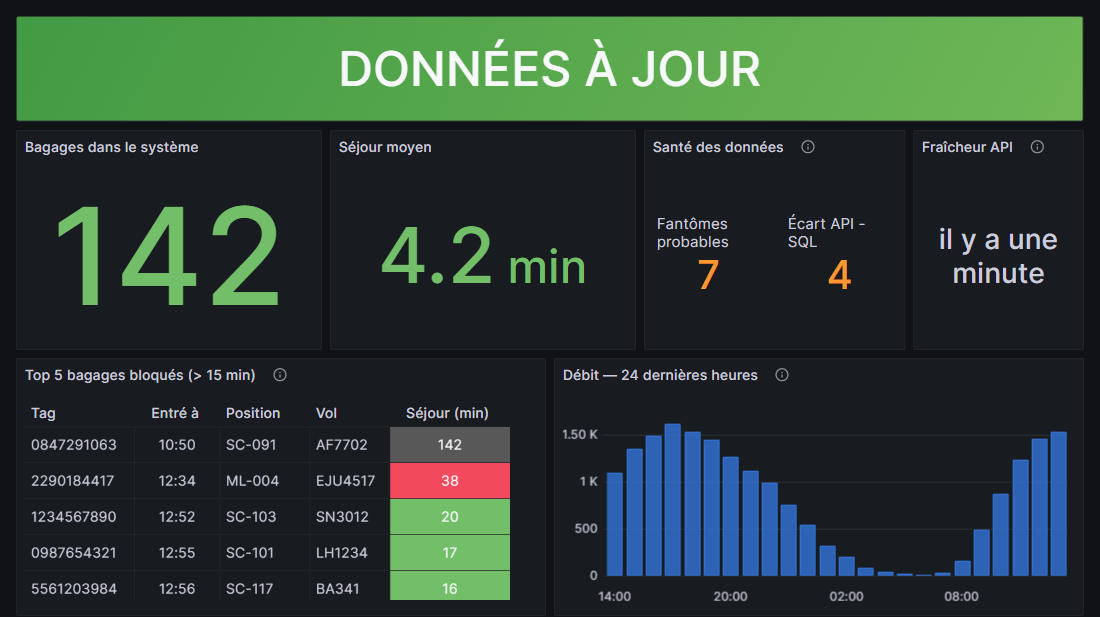
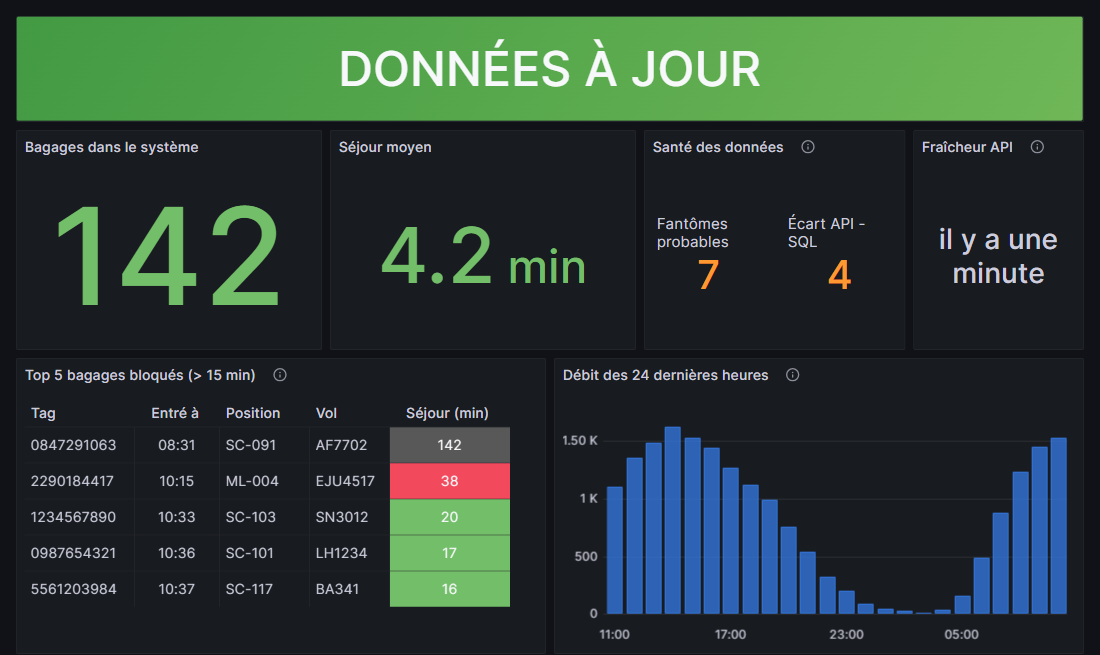
tiny fix: captures

diff --git a/use-case-2-dashboard/solution/apercu-dashboard.html b/use-case-2-dashboard/solution/apercu-dashboard.html
@@ -20,13 +20,13 @@
   .caption code { font-family: Consolas, monospace; color: #a8abb3; }
   .stage { width: 100%; display: flex; justify-content: center; }
   .screen {
-    width: 1520px; height: 855px; flex: none;
+    width: 1520px; height: 882px; flex: none;
     background: #111217;
     border: 1px solid #26282e; border-radius: 4px;
     padding: 8px;
     display: grid;
     grid-template-columns: repeat(24, 1fr);
-    grid-template-rows: 157px 303px 363px;
+    grid-template-rows: 157px 303px 390px;
     gap: 8px;
     transform-origin: top left;
   }
@@ -153,7 +153,7 @@
           </div>
           <div class="health-stat">
             <div class="health-name">Écart API - SQL</div>
-            <div class="health-value orange">7</div>
+            <div class="health-value orange">4</div>
           </div>
         </div>
       </div>
@@ -264,7 +264,7 @@
       function fit() {
         var scale = Math.min(1, stage.clientWidth / 1520);
         screen.style.transform = "scale(" + scale + ")";
-        stage.style.height = (855 * scale) + "px";
+        stage.style.height = (882 * scale) + "px";
       }
       window.addEventListener("resize", fit);
       fit();

diff --git a/use-case-2-dashboard/solution/README.md b/use-case-2-dashboard/solution/README.md
@@ -77,7 +77,7 @@ dans un outil déjà exploité.
 ![Dashboard en conditions nominales](images/dashboard-nominal.png)
 *Le [dashboard.json](dashboard.json) livré, importé tel quel dans un Grafana
 9.5.15 de test (Docker) : plugin Infinity 2.11.4, API mockée, SQL Server 2019
-peuplé de données fictives. Viewport 1100 × 617, celui du kiosk (§7).*
+peuplé de données fictives. Viewport 1100 × 655, celui du kiosk (§7).*
 
 ## 4. Sources de données
 
